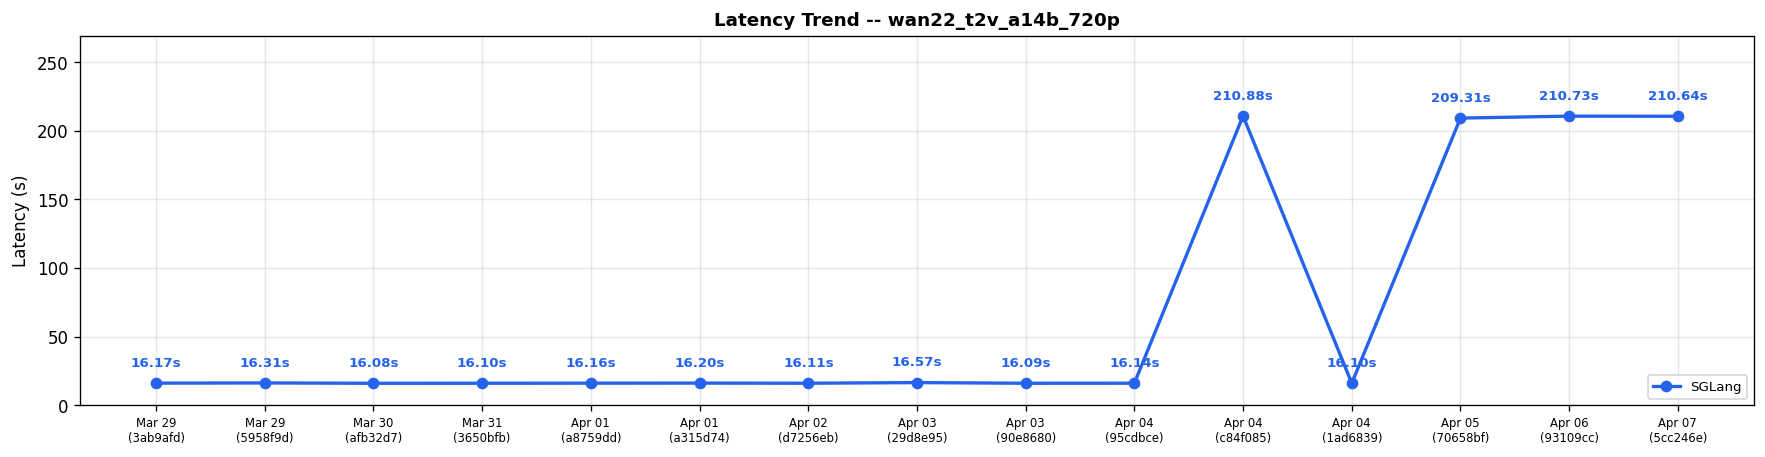
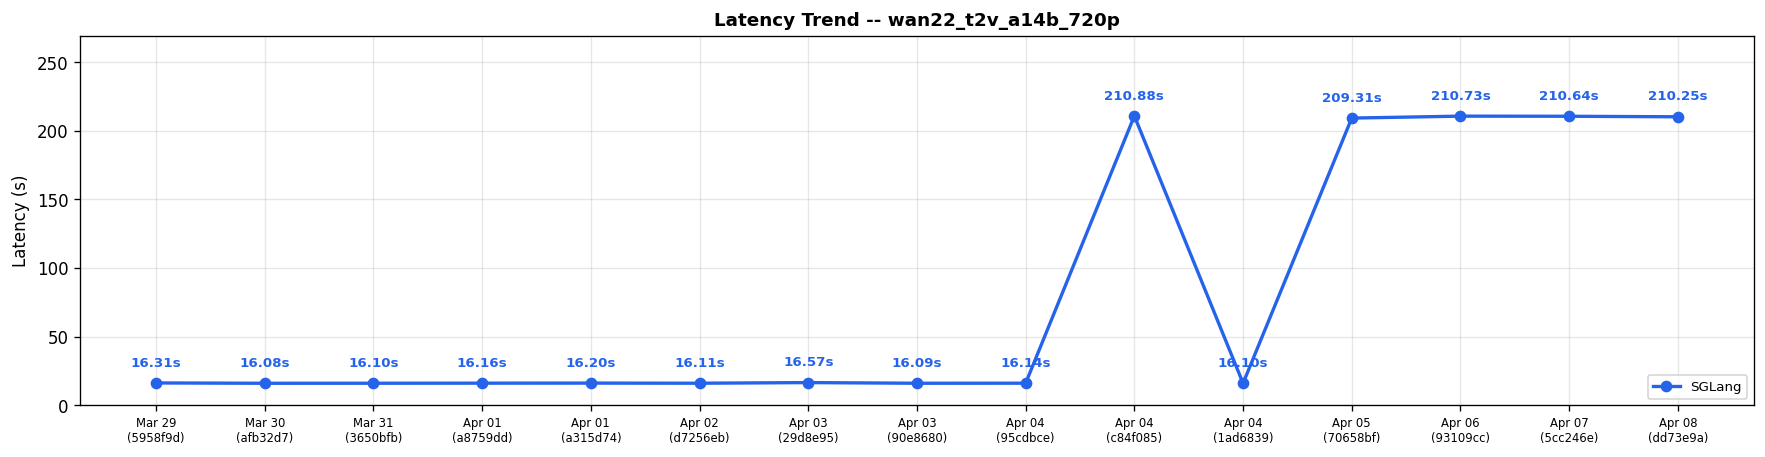
Diffusion comparison results for run 24111611527 (#561)

diff --git a/diffusion-comparisons/dashboard.md b/diffusion-comparisons/dashboard.md
@@ -1,26 +1,20 @@
 # Diffusion Cross-Framework Performance Dashboard
 
-*Generated: Apr 07 | Commit: `5cc246e`*
-
-> [!WARNING]
-> **Performance Regression Detected**
->
-> - **ltx2_twostage_t2v** (sglang): 14.13s -> 15.11s (+6.9%)
-
+*Generated: Apr 08 | Commit: `dd73e9a`*
 
 ## Cross-Framework Performance Comparison
 
 | Model | Risk | sglang (s) |
 |-------|------|---------|
-| FLUX.1-dev | ✅ | **6.69** |
-| FLUX.2-dev | ✅ | **22.92** |
+| FLUX.1-dev | ✅ | **6.83** |
+| FLUX.2-dev | ✅ | **22.96** |
 | Qwen-Image-2512 | ✅ | **13.19** |
-| Qwen-Image-Edit-2511 | ✅ | **23.83** |
+| Qwen-Image-Edit-2511 | ✅ | **23.84** |
 | Z-Image-Turbo | ✅ | **0.89** |
-| Wan2.2-T2V-A14B-Diffusers | ⚠ | **210.64** |
+| Wan2.2-T2V-A14B-Diffusers | ✅ | **210.25** |
 | Wan2.2-TI2V-5B-Diffusers | ✅ | **62.20** |
-| LTX-2 | ⚠ | **15.11** |
-| Wan2.2-I2V-A14B-Diffusers | ⚠ | **207.62** |
+| LTX-2 | ⚠ | **15.24** |
+| Wan2.2-I2V-A14B-Diffusers | ✅ | **206.65** |
 
 ### Latency Trend: flux1_dev_t2i_1024
 
@@ -71,6 +65,7 @@
 
 | Date | Commit | flux1_dev_t2i_1024 (s) | flux2_dev_t2i_1024 (s) | qwen_image_2512_t2i_1024 (s) | qwen_image_edit_2511 (s) | zimage_turbo_t2i_1024 (s) | wan22_t2v_a14b_720p (s) | wan22_ti2v_5b_720p (s) | ltx2_twostage_t2v (s) | wan22_i2v_a14b_720p (s) | Trend |
 |------|--------|---------|---------|---------|---------|---------|---------|---------|---------|---------|-------|
+| Apr 08 | `dd73e9a` | 6.83 | 22.96 | 13.19 | 23.84 | 0.89 | 210.25 | 62.20 | 15.24 | 206.65 | :arrow_up:  :left_right_arrow:  :left_right_arrow:  :left_right_arrow:  :left_right_arrow:  :left_right_arrow:  :left_right_arrow:  :left_right_arrow:  :left_right_arrow: |
 | Apr 07 | `5cc246e` | 6.69 | 22.92 | 13.19 | 23.83 | 0.89 | 210.64 | 62.20 | 15.11 | 207.62 | :left_right_arrow:  :left_right_arrow:  :arrow_down:  :left_right_arrow:  :left_right_arrow:  :left_right_arrow:  :left_right_arrow:  :arrow_up:  :left_right_arrow: |
 | Apr 06 | `93109cc` | 6.70 | 22.86 | 13.61 | 23.92 | 0.89 | 210.73 | 62.15 | 14.13 | 207.67 | :left_right_arrow:  :left_right_arrow:  :arrow_down:  :left_right_arrow:  :left_right_arrow:  :left_right_arrow:  :left_right_arrow:  :left_right_arrow:  :left_right_arrow: |
 | Apr 05 | `70658bf` | 6.68 | 22.80 | 14.12 | 23.80 | 0.88 | 209.31 | 62.15 | 14.06 | 204.55 | :left_right_arrow:  :left_right_arrow:  :arrow_up:  :arrow_down:  :left_right_arrow:  :arrow_up:  :arrow_down:   :arrow_up: |
@@ -84,16 +79,13 @@
 | Apr 01 | `a8759dd` | 6.70 | 22.88 | 13.19 | 30.10 | 0.93 | 16.16 | 62.20 | N/A | 21.07 | :left_right_arrow:  :left_right_arrow:  :left_right_arrow:  :left_right_arrow:  :left_right_arrow:  :left_right_arrow:  :left_right_arrow:   :arrow_up: |
 | Mar 31 | `3650bfb` | 6.69 | 22.84 | 13.19 | 29.64 | 0.93 | 16.10 | 63.18 | N/A | 9.03 | :left_right_arrow:  :left_right_arrow:  :left_right_arrow:  :left_right_arrow:  :left_right_arrow:  :left_right_arrow:  :left_right_arrow:   :arrow_down: |
 | Mar 30 | `afb32d7` | 6.68 | 22.79 | 13.16 | 29.44 | 0.92 | 16.08 | 62.21 | N/A | 10.04 | :left_right_arrow:  :left_right_arrow:  :left_right_arrow:  :left_right_arrow:  :left_right_arrow:  :left_right_arrow:  :left_right_arrow:   :left_right_arrow: |
-| Mar 29 | `5958f9d` | 6.70 | 22.86 | 13.19 | 29.74 | 0.93 | 16.31 | 62.18 | N/A | 10.04 | :left_right_arrow:  :left_right_arrow:  :left_right_arrow:  :left_right_arrow:  :left_right_arrow:  :left_right_arrow:  :left_right_arrow:   :arrow_up: |
-| Mar 29 | `3ab9afd` | 6.70 | 22.90 | 13.19 | 29.52 | 0.93 | 16.17 | 62.17 | N/A | 9.04 | -- |
+| Mar 29 | `5958f9d` | 6.70 | 22.86 | 13.19 | 29.74 | 0.93 | 16.31 | 62.18 | N/A | 10.04 | -- |
 
 > [!CAUTION]
 > **Action Required — Performance Alert**
 >
 > The following cases need attention:
-> - wan22_t2v_a14b_720p: SGLang regression +44.9% vs 3-run avg (210.64s vs 145.38s)
-> - ltx2_twostage_t2v: SGLang regression +7.2% vs 3-run avg (15.11s vs 14.10s)
-> - wan22_i2v_a14b_720p: SGLang regression +43.8% vs 3-run avg (207.62s vs 144.43s)
+> - ltx2_twostage_t2v: SGLang regression +5.6% vs 3-run avg (15.24s vs 14.43s)
 
 
 ---
